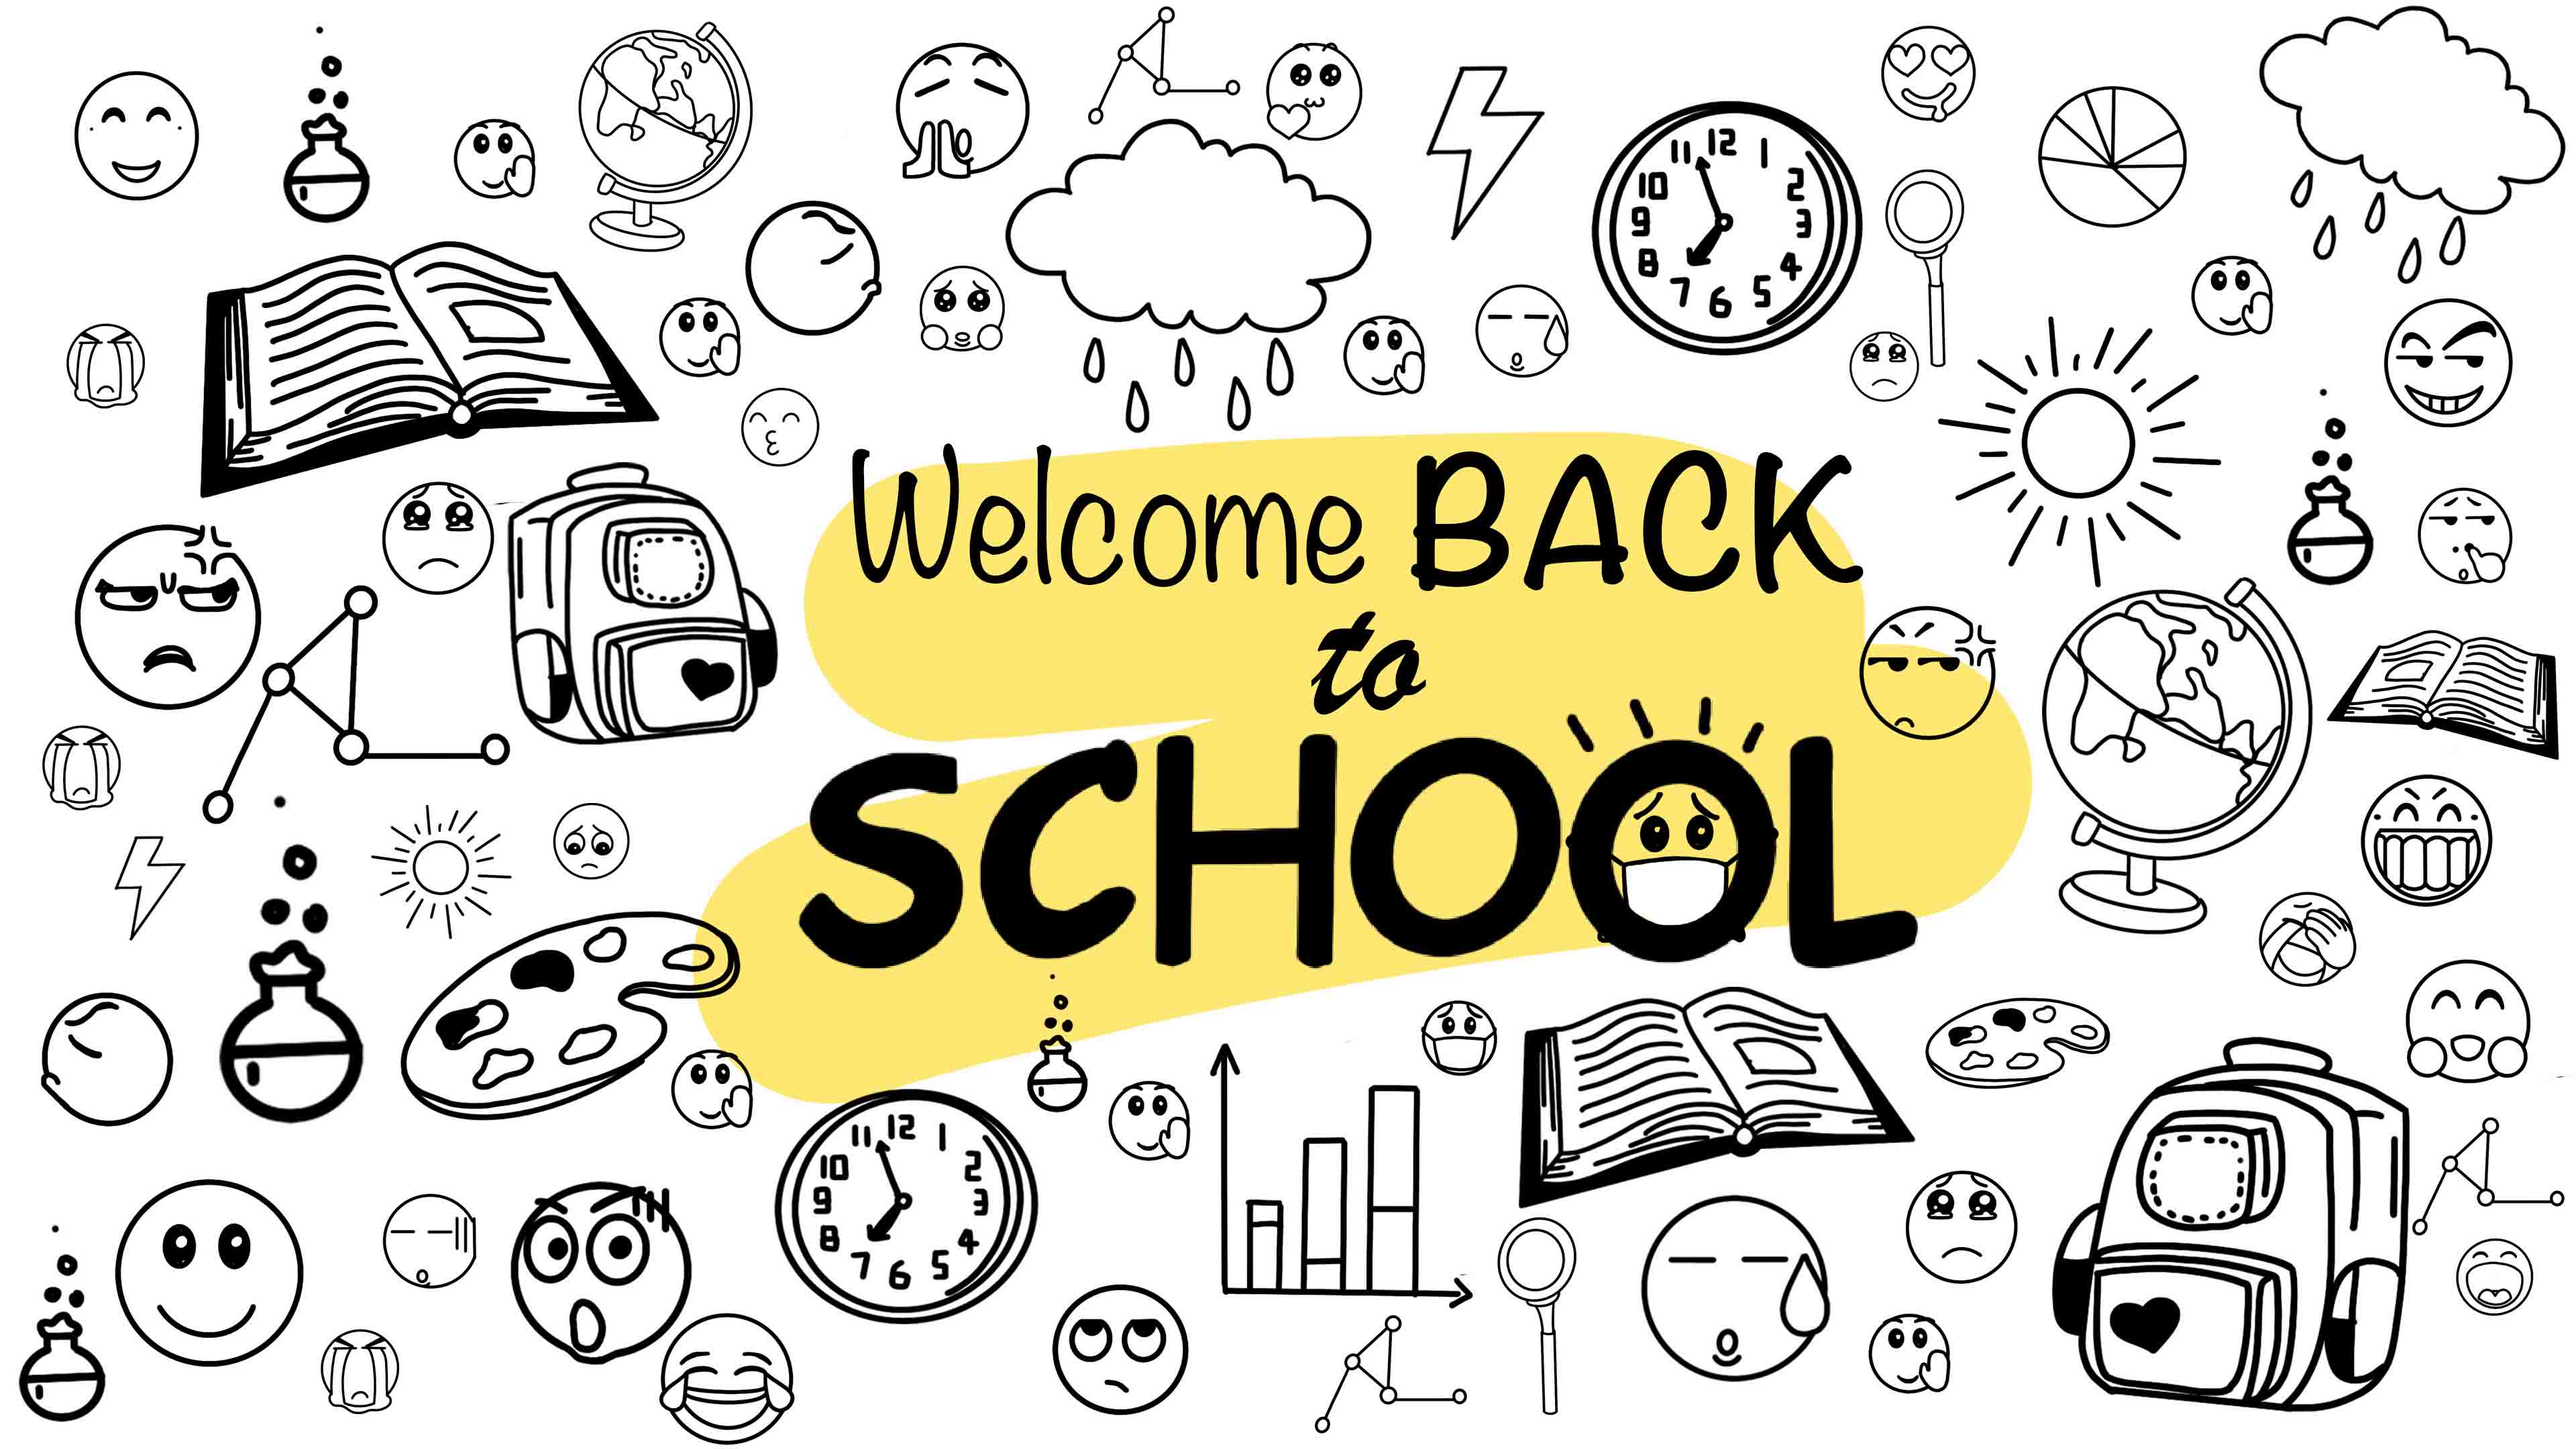
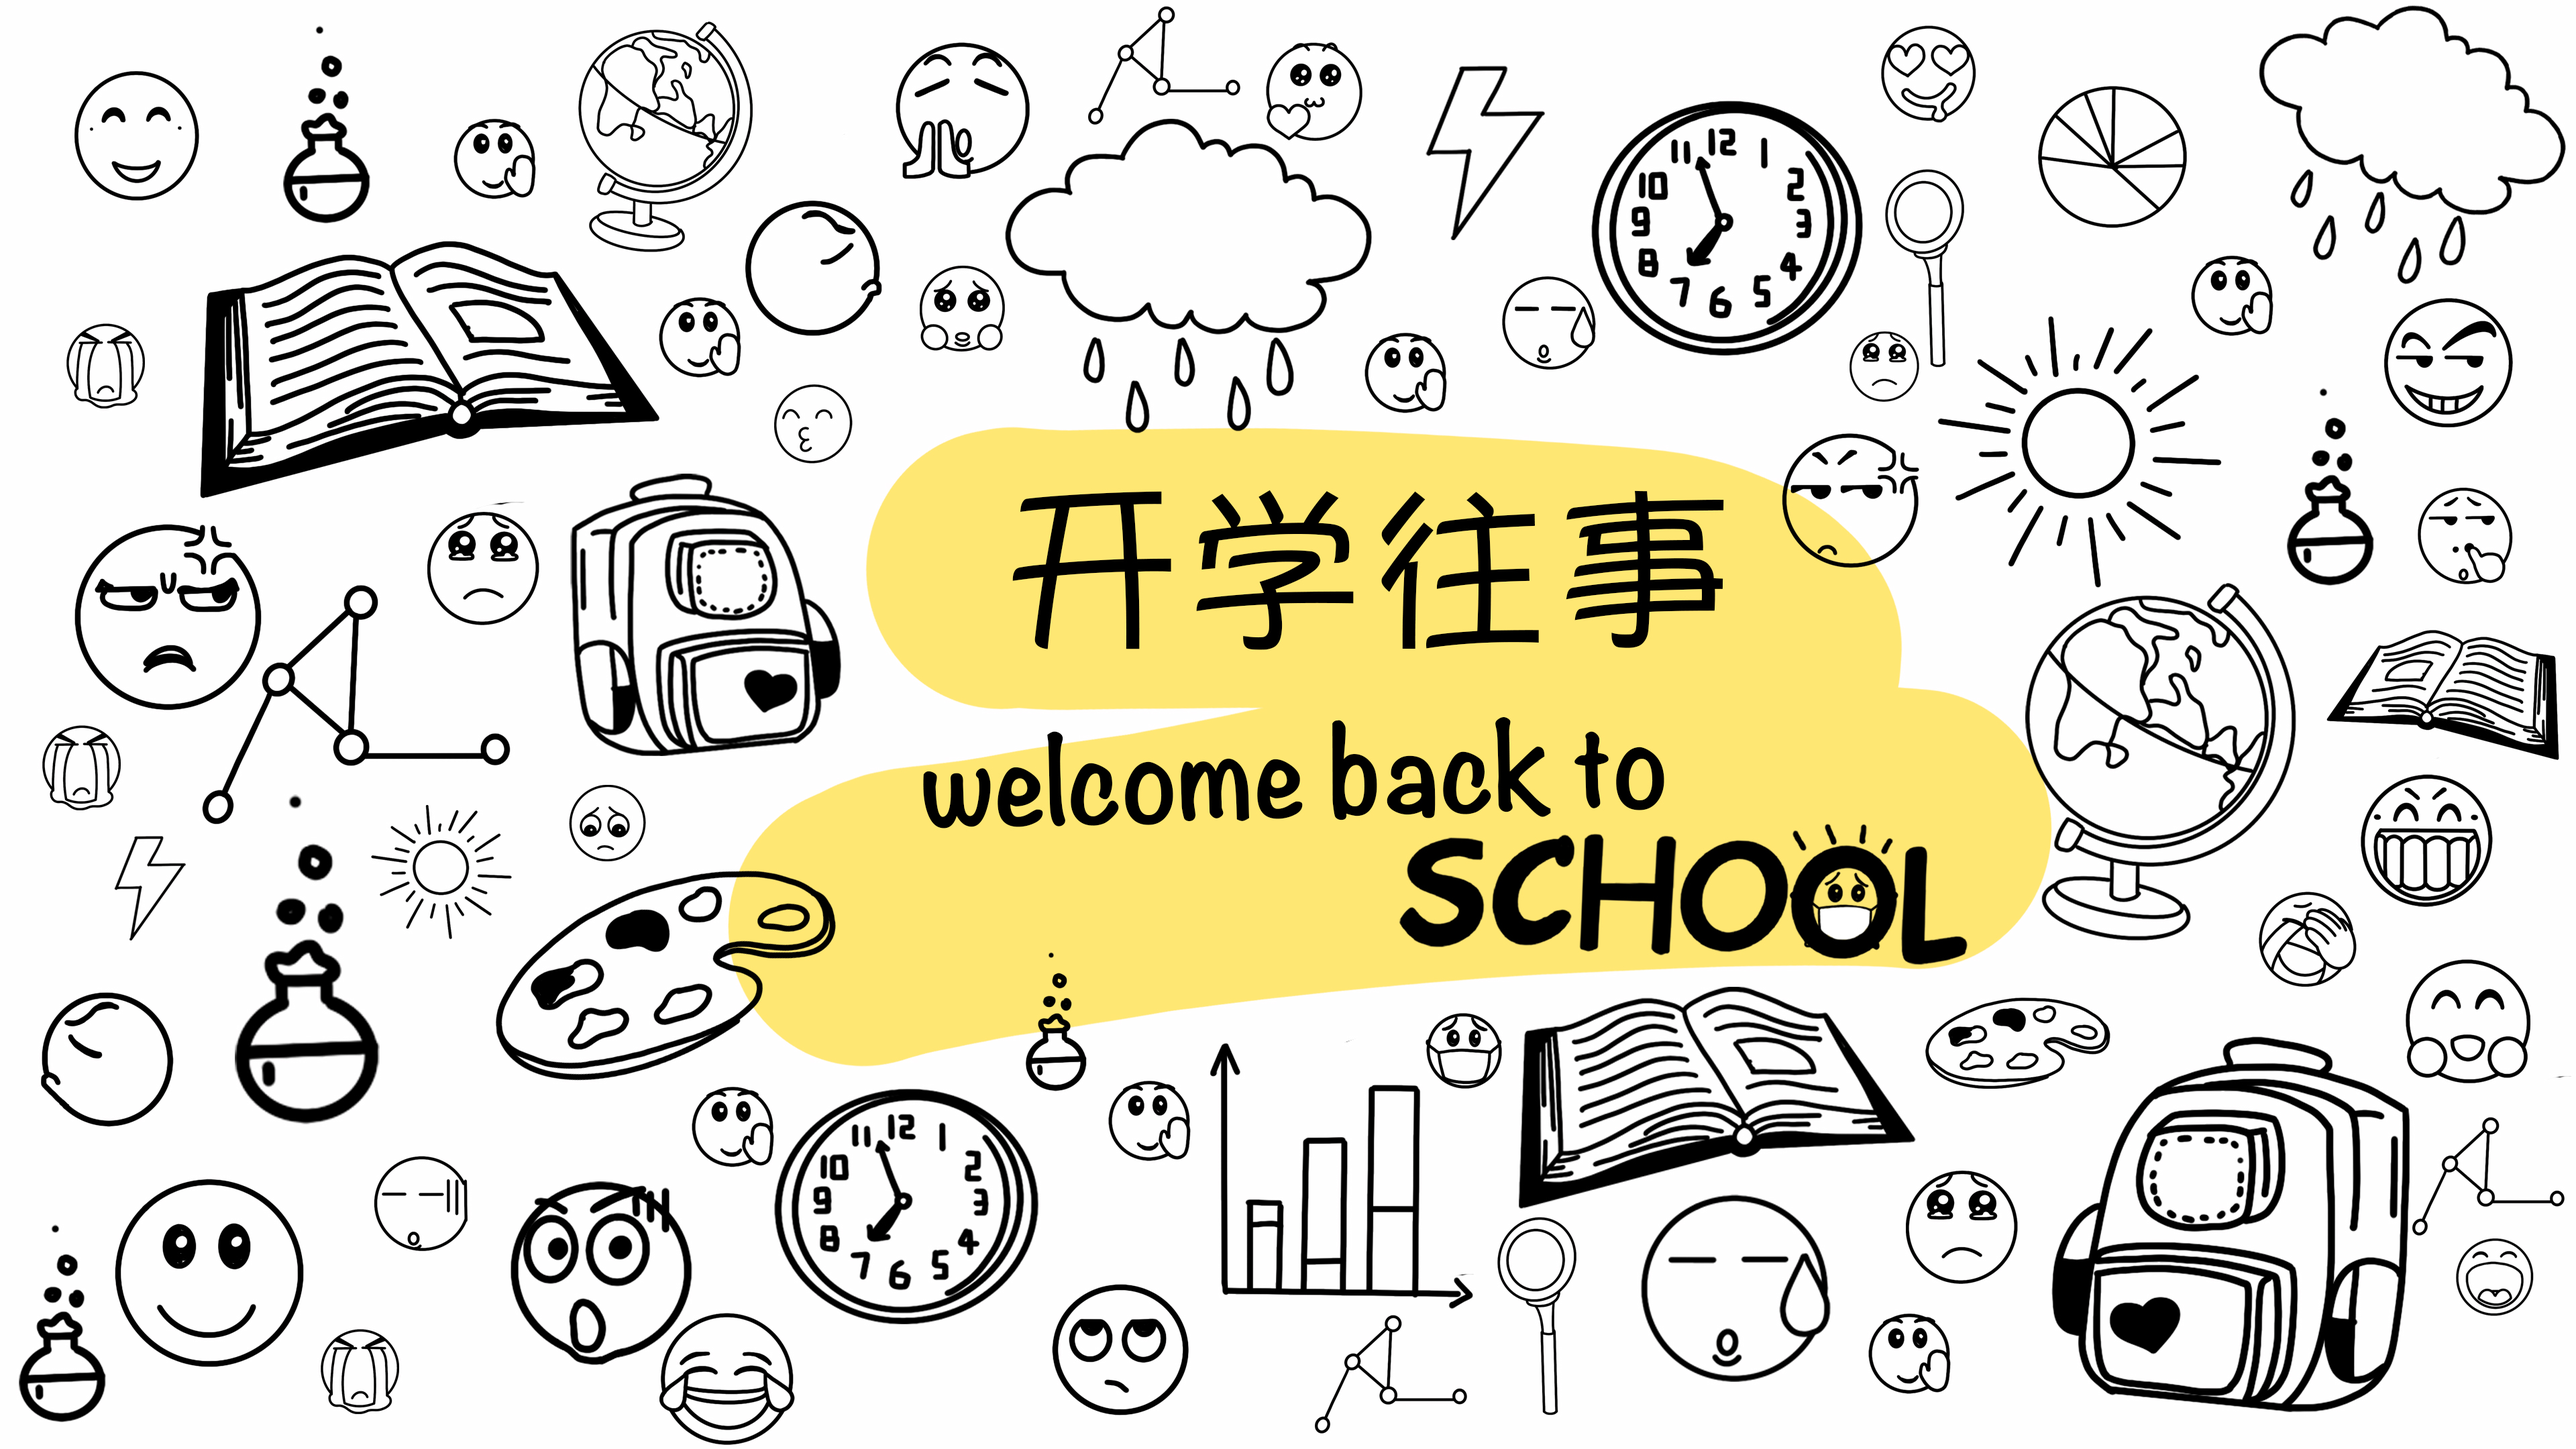
change header /text/ chart

Changed region(s): [[0.0625, 0.1861, 0.9062, 0.8065], [0.1562, 0.8065, 0.1875, 0.8995]]

diff --git a/webshow1/trendingofschopen.html b/webshow1/trendingofschopen.html
@@ -8,8 +8,8 @@
 <head>
 
 
-    <title>微博热搜篇之开学往事</title>
-    <link rel="shortcut icon" type= "image/x-icon" href="/webshow1/images/favicon.ico">
+    <title>微博热搜之开学往事</title>
+    <link rel="shortcut icon" type="image/x-icon" href="/webshow1/images/favicon.ico">
     <meta charset="utf-8"/>
     <meta name="viewport" content="width=device-width, initial-scale=1, user-scalable=no"/>
     <link rel="stylesheet" href="assets/css/main.css"/>
@@ -32,17 +32,15 @@
 
         <div class="container">
 
-            <h1>----------</h1>
 
-            <h1>《微博热搜之疫情期间的开学😣》</h1>
+            <h1>《微博热搜之疫情期间的开学往事》</h1>
 
-            <h1>----------</h1>
-            <h1></h1>
-            <h1></h1>
-            <h1></h1>
-            <p>
-            <p></p></p>
-            <h2> “疫情期间你刷到了多少条与开学有关的热搜？”</h2>
+            <!--            <h1>&#45;&#45;&#45;&#45;&#45;&#45;&#45;&#45;&#45;&#45;</h1>-->
+
+            <!--            <p>-->
+            <!--            <p></p>-->
+            <!--            </p>-->
+            <h2> “疫情期间，😣你刷到了多少条与开学有关的热搜？”</h2>
         </div>
          
         <!--
@@ -71,10 +69,10 @@
             <h4><br/>从2020/2/6到现在（2020/5/15）<br/>
                 共有264条关于开学的热搜出现，每条热搜都引起了极大关注与讨论</h4>
             <h4><br/>因此，我们收集了相关热搜的热度、排名、以及人们大致情绪等信息，并对其进行可视化处理。</h4>
-                <h4>希望展现不同方面的热搜对人们情绪的不同影响，让人们得以一窥疫情当下学生心理的变化和态度。
+            <h4>希望展现不同方面的热搜对人们情绪的不同影响，让人们得以一窥疫情当下学生心理的变化和态度。
             </h4>
 
-            <h4> <br/>请看：延期寒假的开心到开学焦虑到不开学焦虑再到开学焦虑再到寒假连着暑假过的迷惑……的转变过程</h4>
+            <h4><br/>请看：延期寒假的开心到开学焦虑到不开学焦虑再到开学焦虑再到寒假连着暑假过的迷惑……的转变过程</h4>
 
         </div>
     </header>
@@ -83,10 +81,20 @@
         <script src="https://public.flourish.studio/resources/embed.js"></script>
     </div>-->
 
-    <div class="flourish-embed flourish-bar-chart-race" data-src="visualisation/2413392" data-url="https://flo.uri.sh/visualisation/2413392/embed"><script src="https://public.flourish.studio/resources/embed.js"></script></div>
-    <div class="flourish-embed flourish-chart" data-src="visualisation/2417449" data-url="https://flo.uri.sh/visualisation/2417449/embed"><script src="https://public.flourish.studio/resources/embed.js"></script></div>
+    <div class="flourish-embed flourish-bar-chart-race" data-src="visualisation/2413392"
+         data-url="https://flo.uri.sh/visualisation/2413392/embed">
+        <script src="https://public.flourish.studio/resources/embed.js"></script>
+    </div>
+    <div class="flourish-embed flourish-chart" data-src="visualisation/2417449"
+         data-url="https://flo.uri.sh/visualisation/2417449/embed">
+        <script src="https://public.flourish.studio/resources/embed.js"></script>
+    </div>
     <div class="flourish-embed flourish-hierarchy" data-src="visualisation/2396241"
          data-url="https://flo.uri.sh/visualisation/2396241/embed">
+        <script src="https://public.flourish.studio/resources/embed.js"></script>
+    </div>
+    <div class="flourish-embed flourish-hierarchy" data-src="visualisation/2582489"
+         data-url="https://flo.uri.sh/visualisation/2582489/embed">
         <script src="https://public.flourish.studio/resources/embed.js"></script>
     </div>
     <div class="flourish-embed flourish-hierarchy" data-src="visualisation/2417404"
@@ -94,7 +102,10 @@
         <script src="https://public.flourish.studio/resources/embed.js"></script>
     </div>
 
-    <div class="flourish-embed flourish-scatter" data-src="visualisation/2325107" data-url="https://flo.uri.sh/visualisation/2325107/embed"><script src="https://public.flourish.studio/resources/embed.js"></script></div>
+    <div class="flourish-embed flourish-scatter" data-src="visualisation/2325107"
+         data-url="https://flo.uri.sh/visualisation/2325107/embed">
+        <script src="https://public.flourish.studio/resources/embed.js"></script>
+    </div>
 
 
     <section id="third" class="main">
@@ -144,11 +155,13 @@
 
                     </div>
                     <div class="col-4 col-12-narrow">
-                        <p>截至5月11日</p>
-                        <p>全国已有29个省份公布高校开学时间</p>
-                        <p>开学已经复课的学生总数也超过了1个亿，约占学生总数的40%</p>
+                        <p>5月24日，湖北省教育厅官宣开始逐步开学</p>
+                        <p>至此，全国共31个省份高校开学时间均已明确</p>
+                        <p>已经开学的学生超过了1个亿，占据20%国家总人口的学生群体逐步踏上了复课开学之旅</p>
+                        <p>我们统计的这些数据与可视化，失去开学的热度后，也不过是这宏大历史博物馆中一个小小的册子</p>
                         <p>疫情带来的波动终将平息</p>
                         <p>但我们却再也不可能、也不应该退回到疫情发生之前的状态了</p>
+
 
                         <footer>
                             <a href="#fourth" class="button scrolly">技术支撑</a>
@@ -169,7 +182,7 @@
                         <header>
                             <h3>热搜数据</h3>
                         </header>
-                        <li><a href="http://47.94.93.86">微博热搜博物馆</a> </li>
+                        <li><a href="http://47.94.93.86">微博热搜博物馆</a></li>
                         <p>利用2020初期就开始的微博热搜统计库进行热搜检索，并进一步统计具体热搜的emoji占比，特别鸣谢 微博热搜博物馆 提供的技术支持，有条件还可以直接考虑利用其API进行数据更新</p>
                     </section>
                 </div>
@@ -179,8 +192,9 @@
                         <header>
                             <h3>emoji表情爬取</h3>
                         </header>
-                        <li><a href="https://upupming.site/2019/06/17/weibo-emoji-dataset/#%E5%A4%96%E9%83%A8%E9%93%BE%E6%8E%A5">upupming.site</a>
-                        <p>结合前辈在github上的源码，修改后可以准确统计指定微博及其评论下的所有文本和emoji表情，结合了unicode和微博自带的png表情emoji</p>
+                        <li>
+                            <a href="https://upupming.site/2019/06/17/weibo-emoji-dataset/#%E5%A4%96%E9%83%A8%E9%93%BE%E6%8E%A5">upupming.site</a>
+                            <p>结合前辈在github上的源码，修改后可以准确统计指定微博及其评论下的所有文本和emoji表情，结合了unicode和微博自带的png表情emoji</p>
                     </section>
                 </div>
                 <div class="col-4 col-12-narrow">
@@ -204,8 +218,8 @@
 
 
     <!-- <li> 表现形式探索2.0: <a href="https://gottaegbert.github.io/Emotion-2.0/">点击查看</a></li>-->
-     <!--<li>每条热搜？: <a href="sketch842515/sketch842515/sphere.html">点击2</a></li>
-     Second -->
+    <!--<li>每条热搜？: <a href="sketch842515/sketch842515/sphere.html">点击2</a></li>
+    Second -->
 
     <!--
     <section id="second" class="main">
@@ -519,7 +533,7 @@
     <div class="copyright">
         <ul class="menu">
             <li>&copy; gottaegebrt. All rights reserved.</li>
-            <li>Web Designer: Egbert</a></li>
+            <li>Teamwork by：胡思宇 任鑫睿 张金宇 - - Web Designer: Egbert</a></li>
         </ul>
     </div>
     <!-- ball -->
